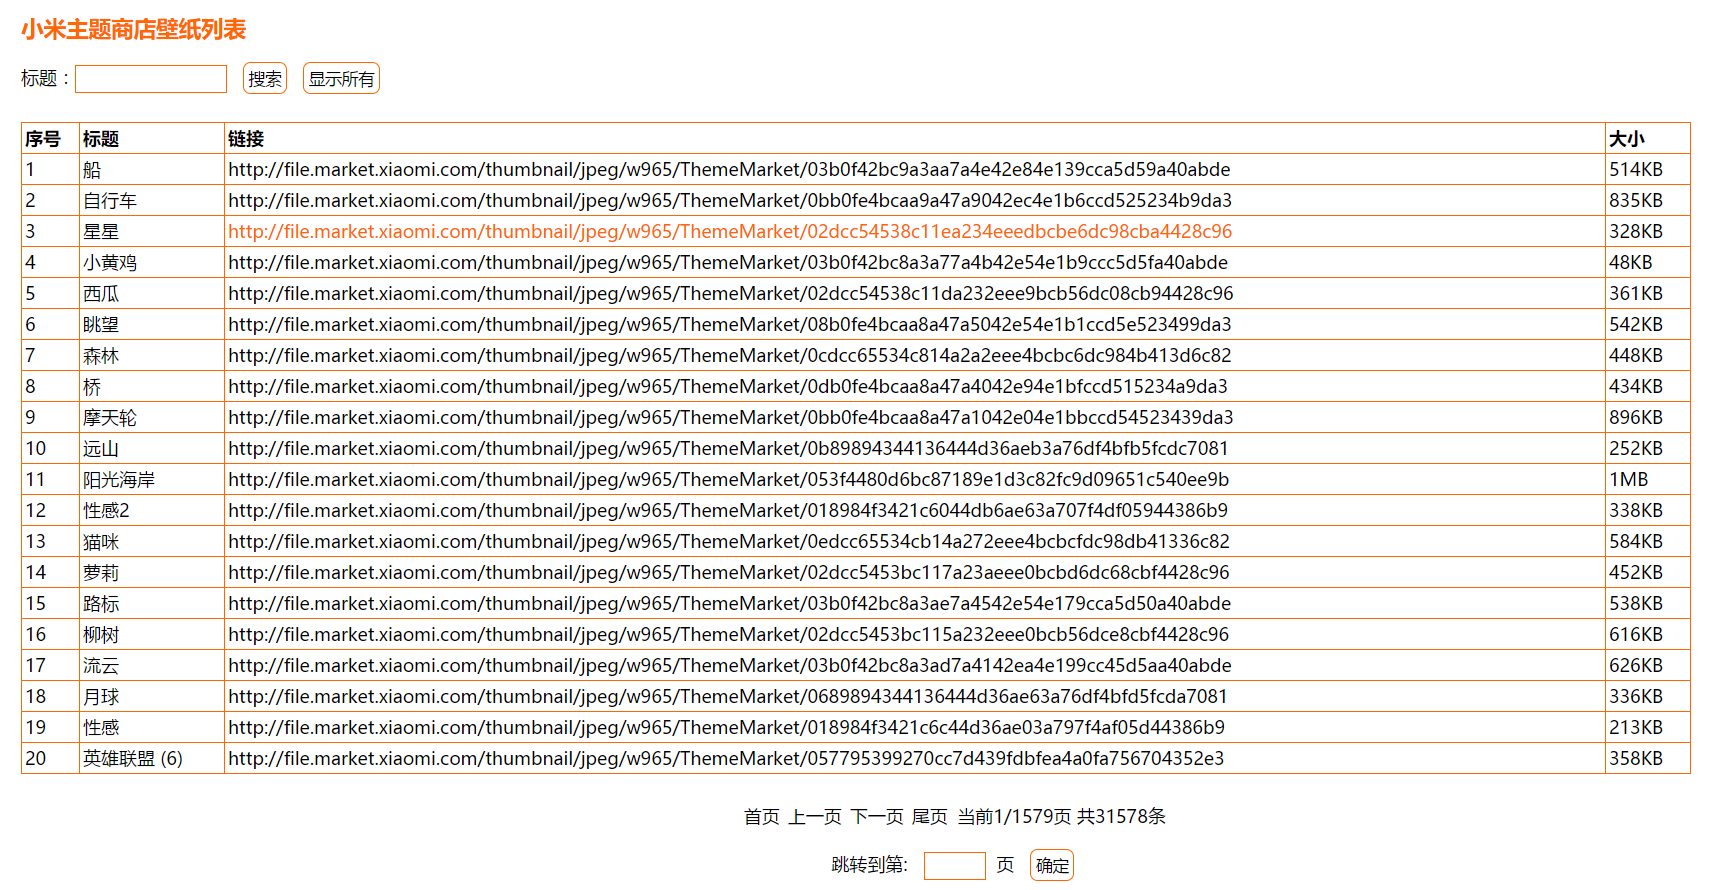
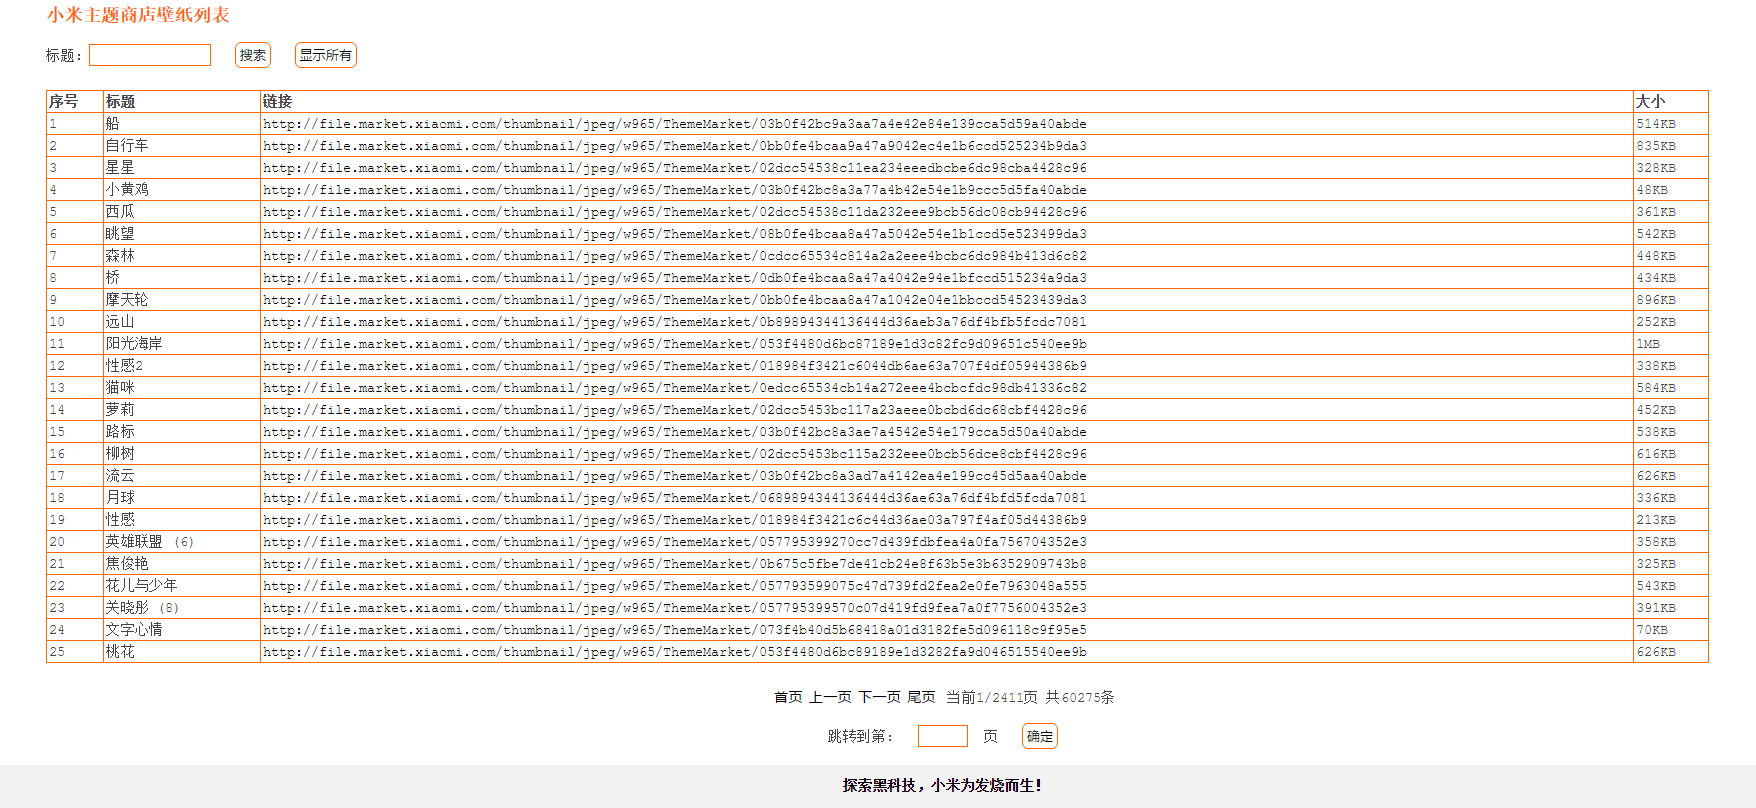
精简代码

Changed region(s): [[0.0, 0.0, 0.9866, 0.9282], [0.4625, 0.9592, 0.6166, 0.9901]]

diff --git a/xmpic/thumb.php b/xmpic/thumb.php
@@ -30,8 +30,7 @@ $sql="select * from xmpic $where ";
 $result=mysql_query($sql);
 $totalnum=mysql_num_rows($result);
 //每页显示条数
-$pagesize=24;
-//$pagesize=$_GET['pagesize'];
+$pagesize=30;
 //总共有几页
 $maxpage=ceil($totalnum/$pagesize);
 $page=isset($_GET['page'])?$_GET['page']:1;
@@ -58,7 +57,6 @@ $res=mysql_query($sql1);
 
 
 <style> 
-
 #login_click{ margin-top:10px; padding-left:12px; height:15px;}  
 #login_click a   
 {  
@@ -109,10 +107,12 @@ a:active {color: #0000FF} /* 选定的链接 */
 </head>
 
 <body>
-<div style="font-size:15px;font-weight:bold;padding-top:5px;padding-left:10px;padding-bottom:3px;color:#ff6700">小米主题商店壁纸列表</div>
 
-<div id=login_click style="font-size:12px;padding-top:0px;padding-left:10px;padding-bottom:25px;">
+<div style="font-size:15px;font-weight:bold;padding-top:5px;padding-left:30px;padding-bottom:3px;color:#ff6700">小米主题商店壁纸列表</div>
+
+<div id=login_click style="font-size:12px;padding-top:0px;padding-left:30px;padding-bottom:25px;">
 <form action="thumb.php" method="get">
+
 标题：<input style="background:transparent;border:0.5px solid #ff6700;width:100px;height:15px;font-size:12px" type="text" name="title" value="<?php echo $_GET['title']?>" size="20" style="width: 106; height: 21">
  &nbsp;&nbsp;<input type="submit" id="submitButton" value="搜索">&nbsp;&nbsp;
  <input type="button" id="submitButton" value="显示所有" onclick="window.location='thumb.php'">
@@ -120,35 +120,39 @@ a:active {color: #0000FF} /* 选定的链接 */
 </div>
 
 
-<div style="font-size:12px;padding-left:10px">
+<div style="padding-left:20px">
 <?php while($row= mysql_fetch_assoc($res)){?>
-<tr>
 <?php 
+echo '<div style="font-size:12px;padding-left:10px;padding-bottom:5px;margin:0 atuo;float:left">';
 $thumbnail = str_replace('/w965/','/h160/',$row[url]);
-echo '<a href="'.$row[url].'" title="'.$row[title].'" target="_blank"><img src="'.$thumbnail.'"></a>';
+//echo '<a href="'.$row[url].'" title="标题：'.$row[title].'&#13;大小：'.$row[size].'" target="_blank"><img src="'.$thumbnail.'"></a>';
+echo '<a href="'.$row[dir].'" title="标题：'.$row[title].'&#13;大小：'.$row[size].'" target="_blank"><img src="'.$thumbnail.'"></a>';
+echo '</div>';
+
 ?>
-</tr>
 <?php }?>
 </div>
 
 
-<div id=login_click style="float:center;font-size:12px;padding-top:10px;padding-left:15px;padding-bottom:5px;text-align:center">
+<div style="clear:both">
+<div id=login_click style="font-size:12px;padding-top:10px;padding-left:15px;padding-bottom:5px;text-align:center">
 <?php
-echo "<a href='thumb.php?page=1{$url}'><span>首页</span></a>";
-echo "<a href='thumb.php?page=".($page-1)."{$url}'><span>上一页</span></a>";
-echo "<a href='thumb.php?page=".($page+1)."{$url}'><span>下一页</span></a>";
-echo "<a href='thumb.php?page={$maxpage}{$url}'><span>尾页</span></a>";
-echo " <span>当前{$page}/{$maxpage}页   共{$totalnum}条</span>";
+echo "<a href='thumb.php?page=1{$url}'>首页</a>";
+echo "<a href='thumb.php?page=".($page-1)."{$url}'>上一页</a>";
+echo "<a href='thumb.php?page=".($page+1)."{$url}'>下一页</a>";
+echo "<a href='thumb.php?page={$maxpage}{$url}'>尾页</a>";
+echo " 当前{$page}/{$maxpage}页   共{$totalnum}条";
 ?>
 </div>
 
 
-<div id=login_click style="float:center;font-size:12px;padding-top:0px;padding-left:15px;padding-bottom:20px;text-align:center">
-<form action="thumb.php" method="get"><span>跳转到第: &nbsp;&nbsp<input style="background:transparent;border:0.5px solid #ff6700;width:40px;height:15px;font-size:12px" type="text" name="page" value="<?php echo $_GET['page']?>" size="3">&nbsp;&nbsp页&nbsp;&nbsp;&nbsp;</span><input type="submit" id="submitButton" value="确定"></form>
+<div id=login_click style="font-size:12px;padding-top:0px;padding-left:15px;padding-bottom:20px;text-align:center">
+<form action="thumb.php" method="get">跳转到第: &nbsp;&nbsp<input style="background:transparent;border:0.5px solid #ff6700;width:40px;height:15px;font-size:12px" type="text" name="page" value="<?php echo $_GET['page']?>" size="3">&nbsp;&nbsp页&nbsp;&nbsp;&nbsp;<input type="submit" id="submitButton" value="确定"></form>
 </div>
 
 <div style="font-size:12px;font-weight:bold;text-align:center;padding-top:10px;padding-left:20px;padding-bottom:20px;color:#ffffff;background:#f2f2f2;height:8px">
 <a href="http://www.xiaomi.com" target="_blank">探索黑科技，小米为发烧而生！</a>
+</div>
 </div>
 
 </body>

diff --git a/xmpic/index.php b/xmpic/index.php
@@ -52,13 +52,17 @@ $res=mysql_query($sql1);
 
 <!DOCTYPE html>
 <html xmlns="http://www.w3.org/1999/xhtml">  
-<head runat="server">  
+<head runat="server"> 
+
+<script type="text/JavaScript">
+</script>
+
+
 <meta charset="UTF-8">
 <title>python爬虫结果显示</title>
 
 
 <style> 
-
 #parent {
     background: url('yourimage') no-repeat;
 	font-size: 12px
@@ -149,14 +153,10 @@ a:active {color: #0000FF} /* 选定的链接 */
 <body>
 
 
-<div style="font-size:15px;font-weight:bold;padding-top:5px;padding-left:10px;padding-bottom:3px;color:#ff6700">小米主题商店壁纸列表</div>
+<div style="font-size:15px;font-weight:bold;padding-top:5px;padding-left:60px;padding-bottom:3px;color:#ff6700">小米主题商店壁纸列表</div>
 
 
-<!--
-<div style="display:inline-block"> 
--->
-
-<div id=login_click style="float:left;font-size:12px;padding-top:0px;padding-left:10px;padding-bottom:25px;">
+<div id=login_click style="float:left;font-size:12px;padding-top:0px;padding-left:60px;padding-bottom:25px;">
 <form action="index.php" method="get">
 
 标题：<input style="background:transparent;border:0.5px solid #ff6700;width:100px;height:15px;font-size:12px" type="text" name="title" value="<?php echo $_GET['title']?>" size="20" style="width: 106; height: 21">
@@ -164,37 +164,10 @@ a:active {color: #0000FF} /* 选定的链接 */
  <input type="button" id="submitButton" value="显示所有" onclick="window.location='index.php'">
 </form>
 </div>
-
-<!--
-
-<div id=login_click style="float:left;font-size:12px;padding-top:0px;padding-left:15px;padding-bottom:15px;">
-
-
-    <form action="index.php" method="GET"> 
-    <label>每页显示条数</label> 
-    <select name="pagesize">
-	<option value='' selected>-请选择-</option>
-    <option value="20">20</option> 
-    <option value="30">30</option> 
-	<option value="50">50</option> 
-	<option value="100">100</option> 
-	<option value="200">200</option> 
-    </select> 
-	<input type="submit" id="submitButton" value="确定">
-    </form> 
-
-</div>
-
--->
-
-<!--
-</div>
--->
-
 <br/>
 
 
-<div style="font-size:12px;padding-left:10px">
+<div style="font-size:12px;padding-left:60px">
 <table class="tb">
 
 
@@ -208,12 +181,13 @@ a:active {color: #0000FF} /* 选定的链接 */
 <tr>
  <td style="bgcolor:#ff6700"><?php echo $row['id'] ?></td>
  <td style="bgcolor:#ff6700"><?php echo $row['title'] ?></td>
- <!--
- <td><?php echo $row['url'] ?></td>
- -->
-<?php 
+ 
+ 
+<?php
+$thumbnail = str_replace('/w965/','/h160/',$row[url]);
 echo '<td style="bgcolor:#ff6700"><a href="'.$row[url].'" target="_blank">'.$row[url].'</a></td>';
 ?>
+
  <td style="bgcolor:#ff6700"><?php echo $row['size'] ?></td>
 </tr>
 <?php }?>

diff --git a/xmpic/README.md b/xmpic/README.md
@@ -257,13 +257,17 @@ $res=mysql_query($sql1);
 
 <!DOCTYPE html>
 <html xmlns="http://www.w3.org/1999/xhtml">  
-<head runat="server">  
+<head runat="server"> 
+
+<script type="text/JavaScript">
+</script>
+
+
 <meta charset="UTF-8">
 <title>python爬虫结果显示</title>
 
 
 <style> 
-
 #parent {
     background: url('yourimage') no-repeat;
 	font-size: 12px
@@ -354,14 +358,10 @@ a:active {color: #0000FF} /* 选定的链接 */
 <body>
 
 
-<div style="font-size:15px;font-weight:bold;padding-top:5px;padding-left:10px;padding-bottom:3px;color:#ff6700">小米主题商店壁纸列表</div>
+<div style="font-size:15px;font-weight:bold;padding-top:5px;padding-left:60px;padding-bottom:3px;color:#ff6700">小米主题商店壁纸列表</div>
 
 
-<!--
-<div style="display:inline-block"> 
--->
-
-<div id=login_click style="float:left;font-size:12px;padding-top:0px;padding-left:10px;padding-bottom:25px;">
+<div id=login_click style="float:left;font-size:12px;padding-top:0px;padding-left:60px;padding-bottom:25px;">
 <form action="index.php" method="get">
 
 标题：<input style="background:transparent;border:0.5px solid #ff6700;width:100px;height:15px;font-size:12px" type="text" name="title" value="<?php echo $_GET['title']?>" size="20" style="width: 106; height: 21">
@@ -369,37 +369,10 @@ a:active {color: #0000FF} /* 选定的链接 */
  <input type="button" id="submitButton" value="显示所有" onclick="window.location='index.php'">
 </form>
 </div>
-
-<!--
-
-<div id=login_click style="float:left;font-size:12px;padding-top:0px;padding-left:15px;padding-bottom:15px;">
-
-
-    <form action="index.php" method="GET"> 
-    <label>每页显示条数</label> 
-    <select name="pagesize">
-	<option value='' selected>-请选择-</option>
-    <option value="20">20</option> 
-    <option value="30">30</option> 
-	<option value="50">50</option> 
-	<option value="100">100</option> 
-	<option value="200">200</option> 
-    </select> 
-	<input type="submit" id="submitButton" value="确定">
-    </form> 
-
-</div>
-
--->
-
-<!--
-</div>
--->
-
 <br/>
 
 
-<div style="font-size:12px;padding-left:10px">
+<div style="font-size:12px;padding-left:60px">
 <table class="tb">
 
 
@@ -413,12 +386,13 @@ a:active {color: #0000FF} /* 选定的链接 */
 <tr>
  <td style="bgcolor:#ff6700"><?php echo $row['id'] ?></td>
  <td style="bgcolor:#ff6700"><?php echo $row['title'] ?></td>
- <!--
- <td><?php echo $row['url'] ?></td>
- -->
-<?php 
+ 
+ 
+<?php
+$thumbnail = str_replace('/w965/','/h160/',$row[url]);
 echo '<td style="bgcolor:#ff6700"><a href="'.$row[url].'" target="_blank">'.$row[url].'</a></td>';
 ?>
+
  <td style="bgcolor:#ff6700"><?php echo $row['size'] ?></td>
 </tr>
 <?php }?>
@@ -492,8 +466,7 @@ $sql="select * from xmpic $where ";
 $result=mysql_query($sql);
 $totalnum=mysql_num_rows($result);
 //每页显示条数
-$pagesize=24;
-//$pagesize=$_GET['pagesize'];
+$pagesize=30;
 //总共有几页
 $maxpage=ceil($totalnum/$pagesize);
 $page=isset($_GET['page'])?$_GET['page']:1;
@@ -540,6 +513,7 @@ $res=mysql_query($sql1);
       
     }  
    #login_click a:hover { background:#ff6700; } 
+
 #submitButton
 {
 	color:#000000;
@@ -569,10 +543,12 @@ a:active {color: #0000FF} /* 选定的链接 */
 </head>
 
 <body>
-<div style="font-size:15px;font-weight:bold;padding-top:5px;padding-left:10px;padding-bottom:3px;color:#ff6700">小米主题商店壁纸列表</div>
 
-<div id=login_click style="font-size:12px;padding-top:0px;padding-left:10px;padding-bottom:25px;">
+<div style="font-size:15px;font-weight:bold;padding-top:5px;padding-left:30px;padding-bottom:3px;color:#ff6700">小米主题商店壁纸列表</div>
+
+<div id=login_click style="font-size:12px;padding-top:0px;padding-left:30px;padding-bottom:25px;">
 <form action="thumb.php" method="get">
+
 标题：<input style="background:transparent;border:0.5px solid #ff6700;width:100px;height:15px;font-size:12px" type="text" name="title" value="<?php echo $_GET['title']?>" size="20" style="width: 106; height: 21">
  &nbsp;&nbsp;<input type="submit" id="submitButton" value="搜索">&nbsp;&nbsp;
  <input type="button" id="submitButton" value="显示所有" onclick="window.location='thumb.php'">
@@ -580,35 +556,39 @@ a:active {color: #0000FF} /* 选定的链接 */
 </div>
 
 
-<div style="font-size:12px;padding-left:10px">
+<div style="padding-left:20px">
 <?php while($row= mysql_fetch_assoc($res)){?>
-<tr>
 <?php 
+echo '<div style="font-size:12px;padding-left:10px;padding-bottom:5px;margin:0 atuo;float:left">';
 $thumbnail = str_replace('/w965/','/h160/',$row[url]);
-echo '<a href="'.$row[url].'" title="'.$row[title].'" target="_blank"><img src="'.$thumbnail.'"></a>';
+//echo '<a href="'.$row[url].'" title="标题：'.$row[title].'&#13;大小：'.$row[size].'" target="_blank"><img src="'.$thumbnail.'"></a>';
+echo '<a href="'.$row[dir].'" title="标题：'.$row[title].'&#13;大小：'.$row[size].'" target="_blank"><img src="'.$thumbnail.'"></a>';
+echo '</div>';
+
 ?>
-</tr>
 <?php }?>
 </div>
 
 
-<div id=login_click style="float:center;font-size:12px;padding-top:10px;padding-left:15px;padding-bottom:5px;text-align:center">
+<div style="clear:both">
+<div id=login_click style="font-size:12px;padding-top:10px;padding-left:15px;padding-bottom:5px;text-align:center">
 <?php
-echo "<a href='thumb.php?page=1{$url}'><span>首页</span></a>";
-echo "<a href='thumb.php?page=".($page-1)."{$url}'><span>上一页</span></a>";
-echo "<a href='thumb.php?page=".($page+1)."{$url}'><span>下一页</span></a>";
-echo "<a href='thumb.php?page={$maxpage}{$url}'><span>尾页</span></a>";
-echo " <span>当前{$page}/{$maxpage}页   共{$totalnum}条</span>";
+echo "<a href='thumb.php?page=1{$url}'>首页</a>";
+echo "<a href='thumb.php?page=".($page-1)."{$url}'>上一页</a>";
+echo "<a href='thumb.php?page=".($page+1)."{$url}'>下一页</a>";
+echo "<a href='thumb.php?page={$maxpage}{$url}'>尾页</a>";
+echo " 当前{$page}/{$maxpage}页   共{$totalnum}条";
 ?>
 </div>
 
 
-<div id=login_click style="float:center;font-size:12px;padding-top:0px;padding-left:15px;padding-bottom:20px;text-align:center">
-<form action="thumb.php" method="get"><span>跳转到第: &nbsp;&nbsp<input style="background:transparent;border:0.5px solid #ff6700;width:40px;height:15px;font-size:12px" type="text" name="page" value="<?php echo $_GET['page']?>" size="3">&nbsp;&nbsp页&nbsp;&nbsp;&nbsp;</span><input type="submit" id="submitButton" value="确定"></form>
+<div id=login_click style="font-size:12px;padding-top:0px;padding-left:15px;padding-bottom:20px;text-align:center">
+<form action="thumb.php" method="get">跳转到第: &nbsp;&nbsp<input style="background:transparent;border:0.5px solid #ff6700;width:40px;height:15px;font-size:12px" type="text" name="page" value="<?php echo $_GET['page']?>" size="3">&nbsp;&nbsp页&nbsp;&nbsp;&nbsp;<input type="submit" id="submitButton" value="确定"></form>
 </div>
 
 <div style="font-size:12px;font-weight:bold;text-align:center;padding-top:10px;padding-left:20px;padding-bottom:20px;color:#ffffff;background:#f2f2f2;height:8px">
 <a href="http://www.xiaomi.com" target="_blank">探索黑科技，小米为发烧而生！</a>
+</div>
 </div>
 
 </body>
